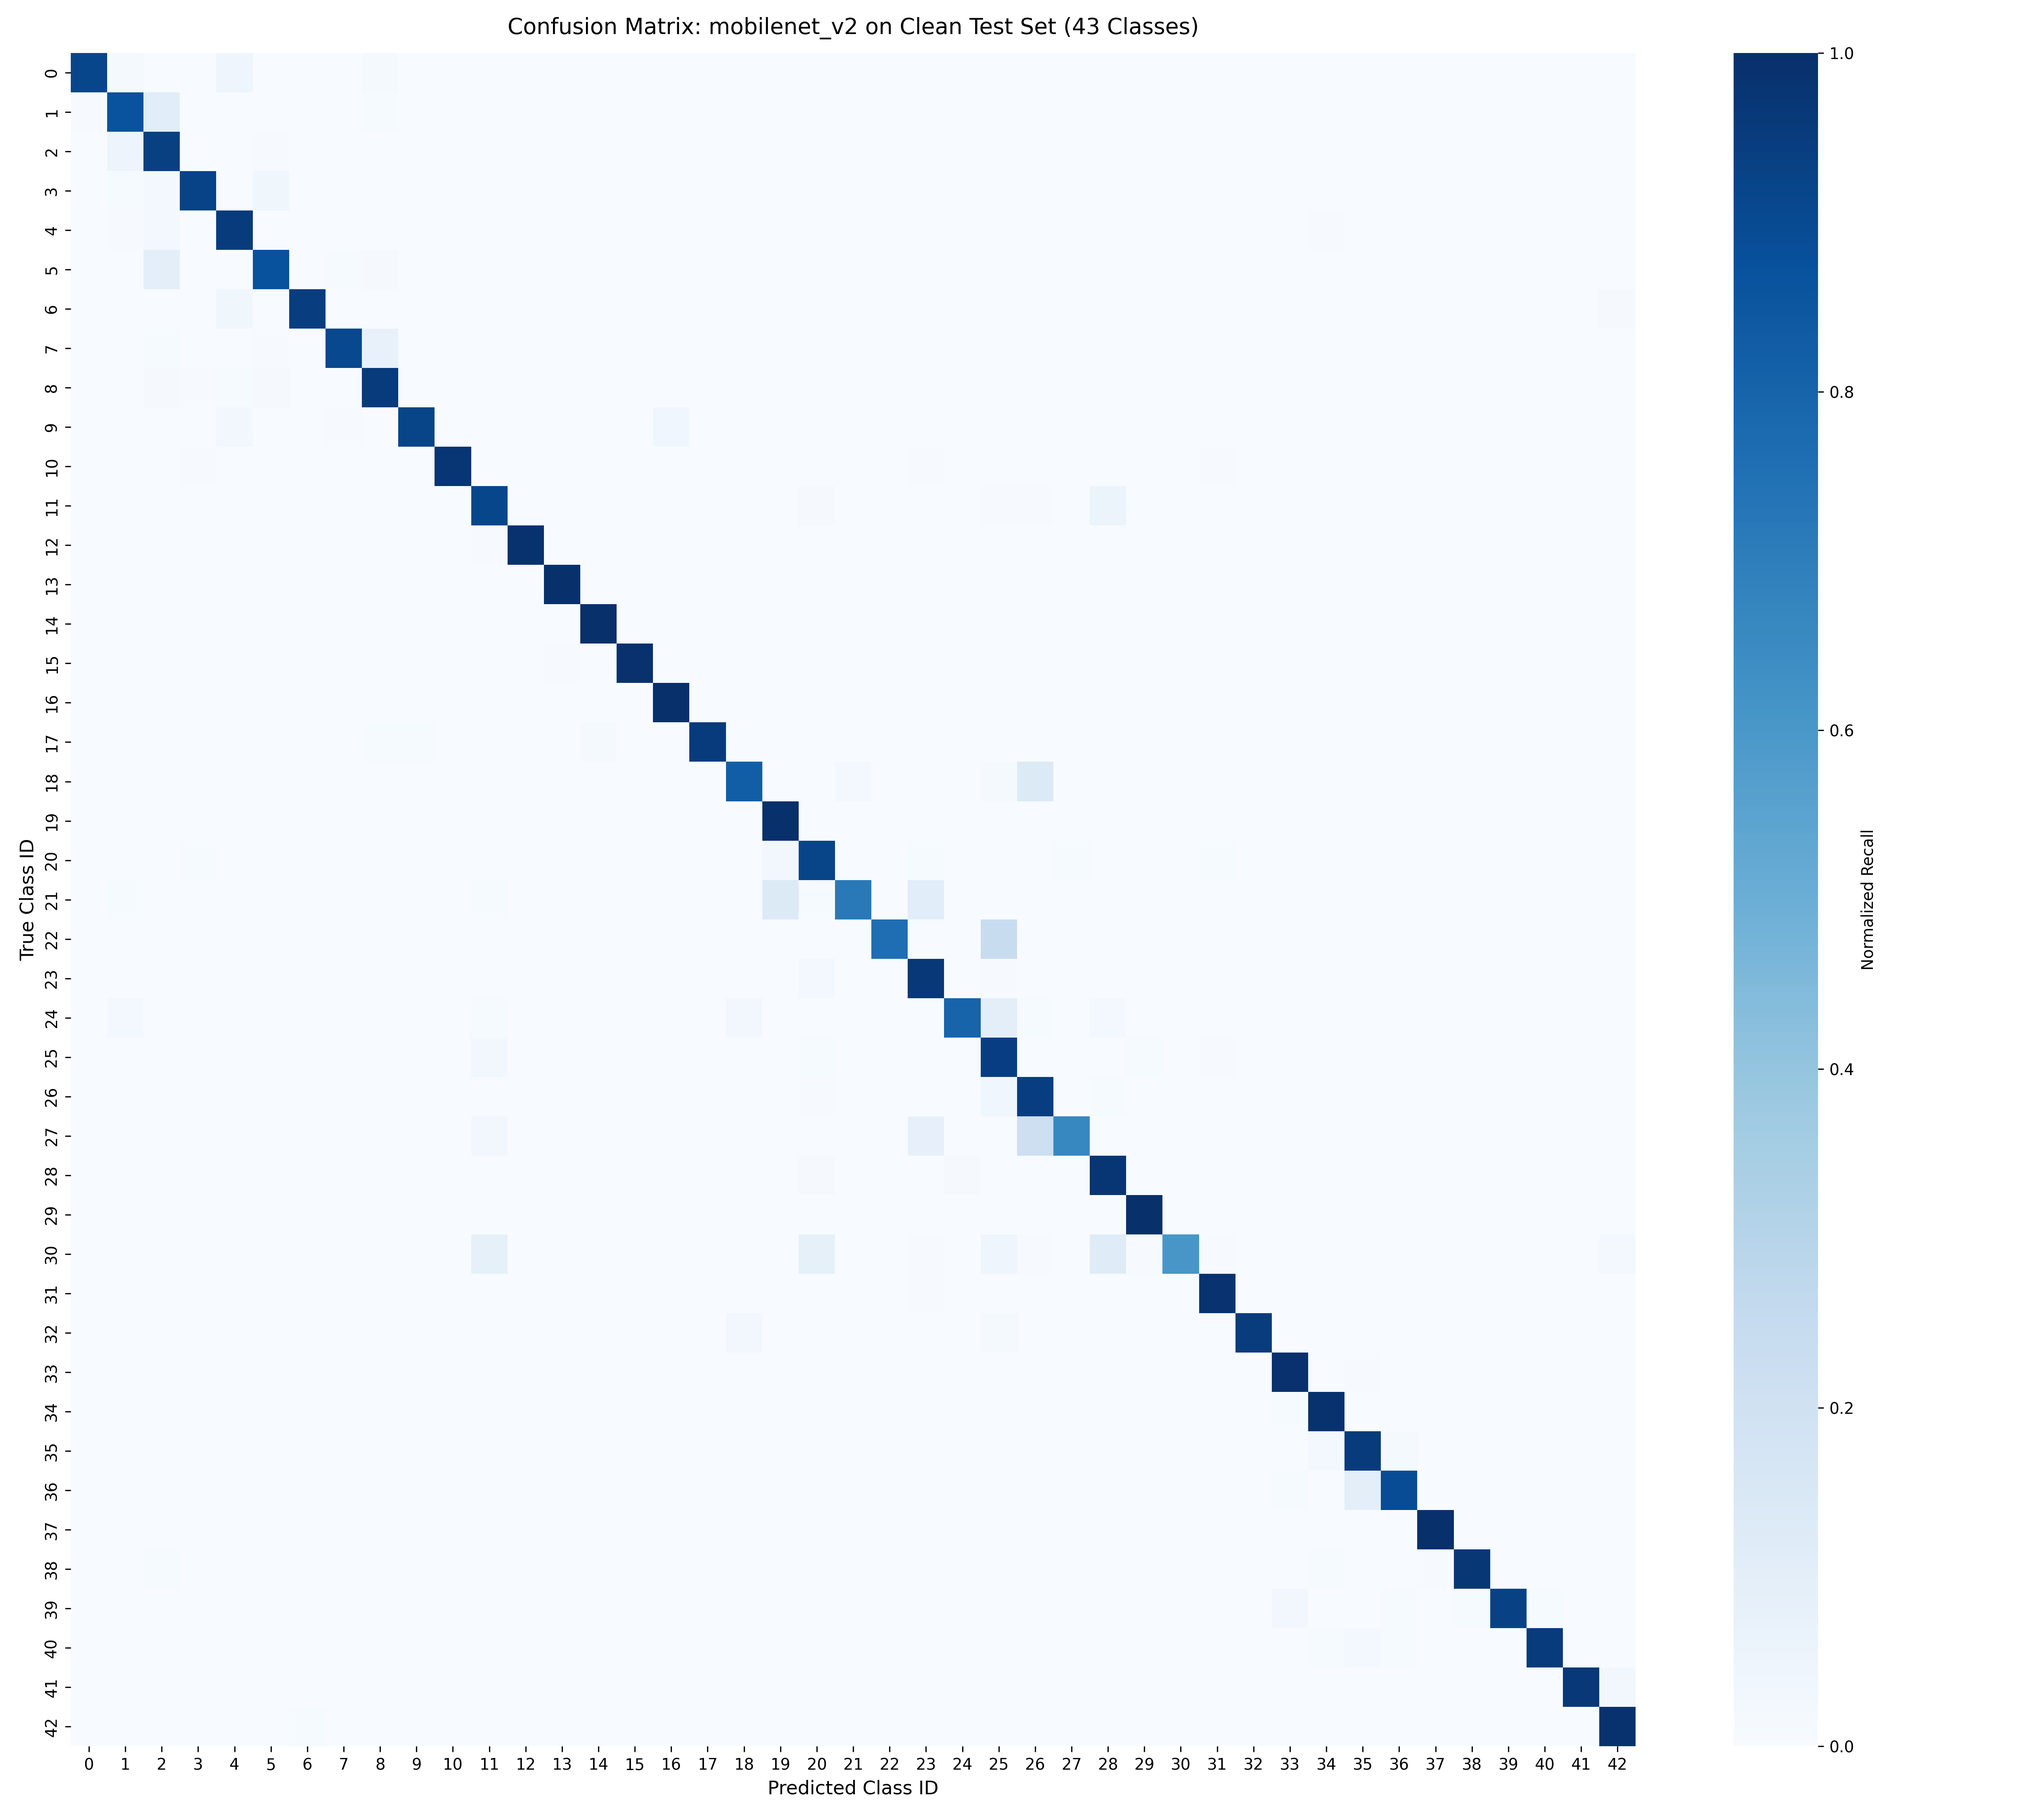
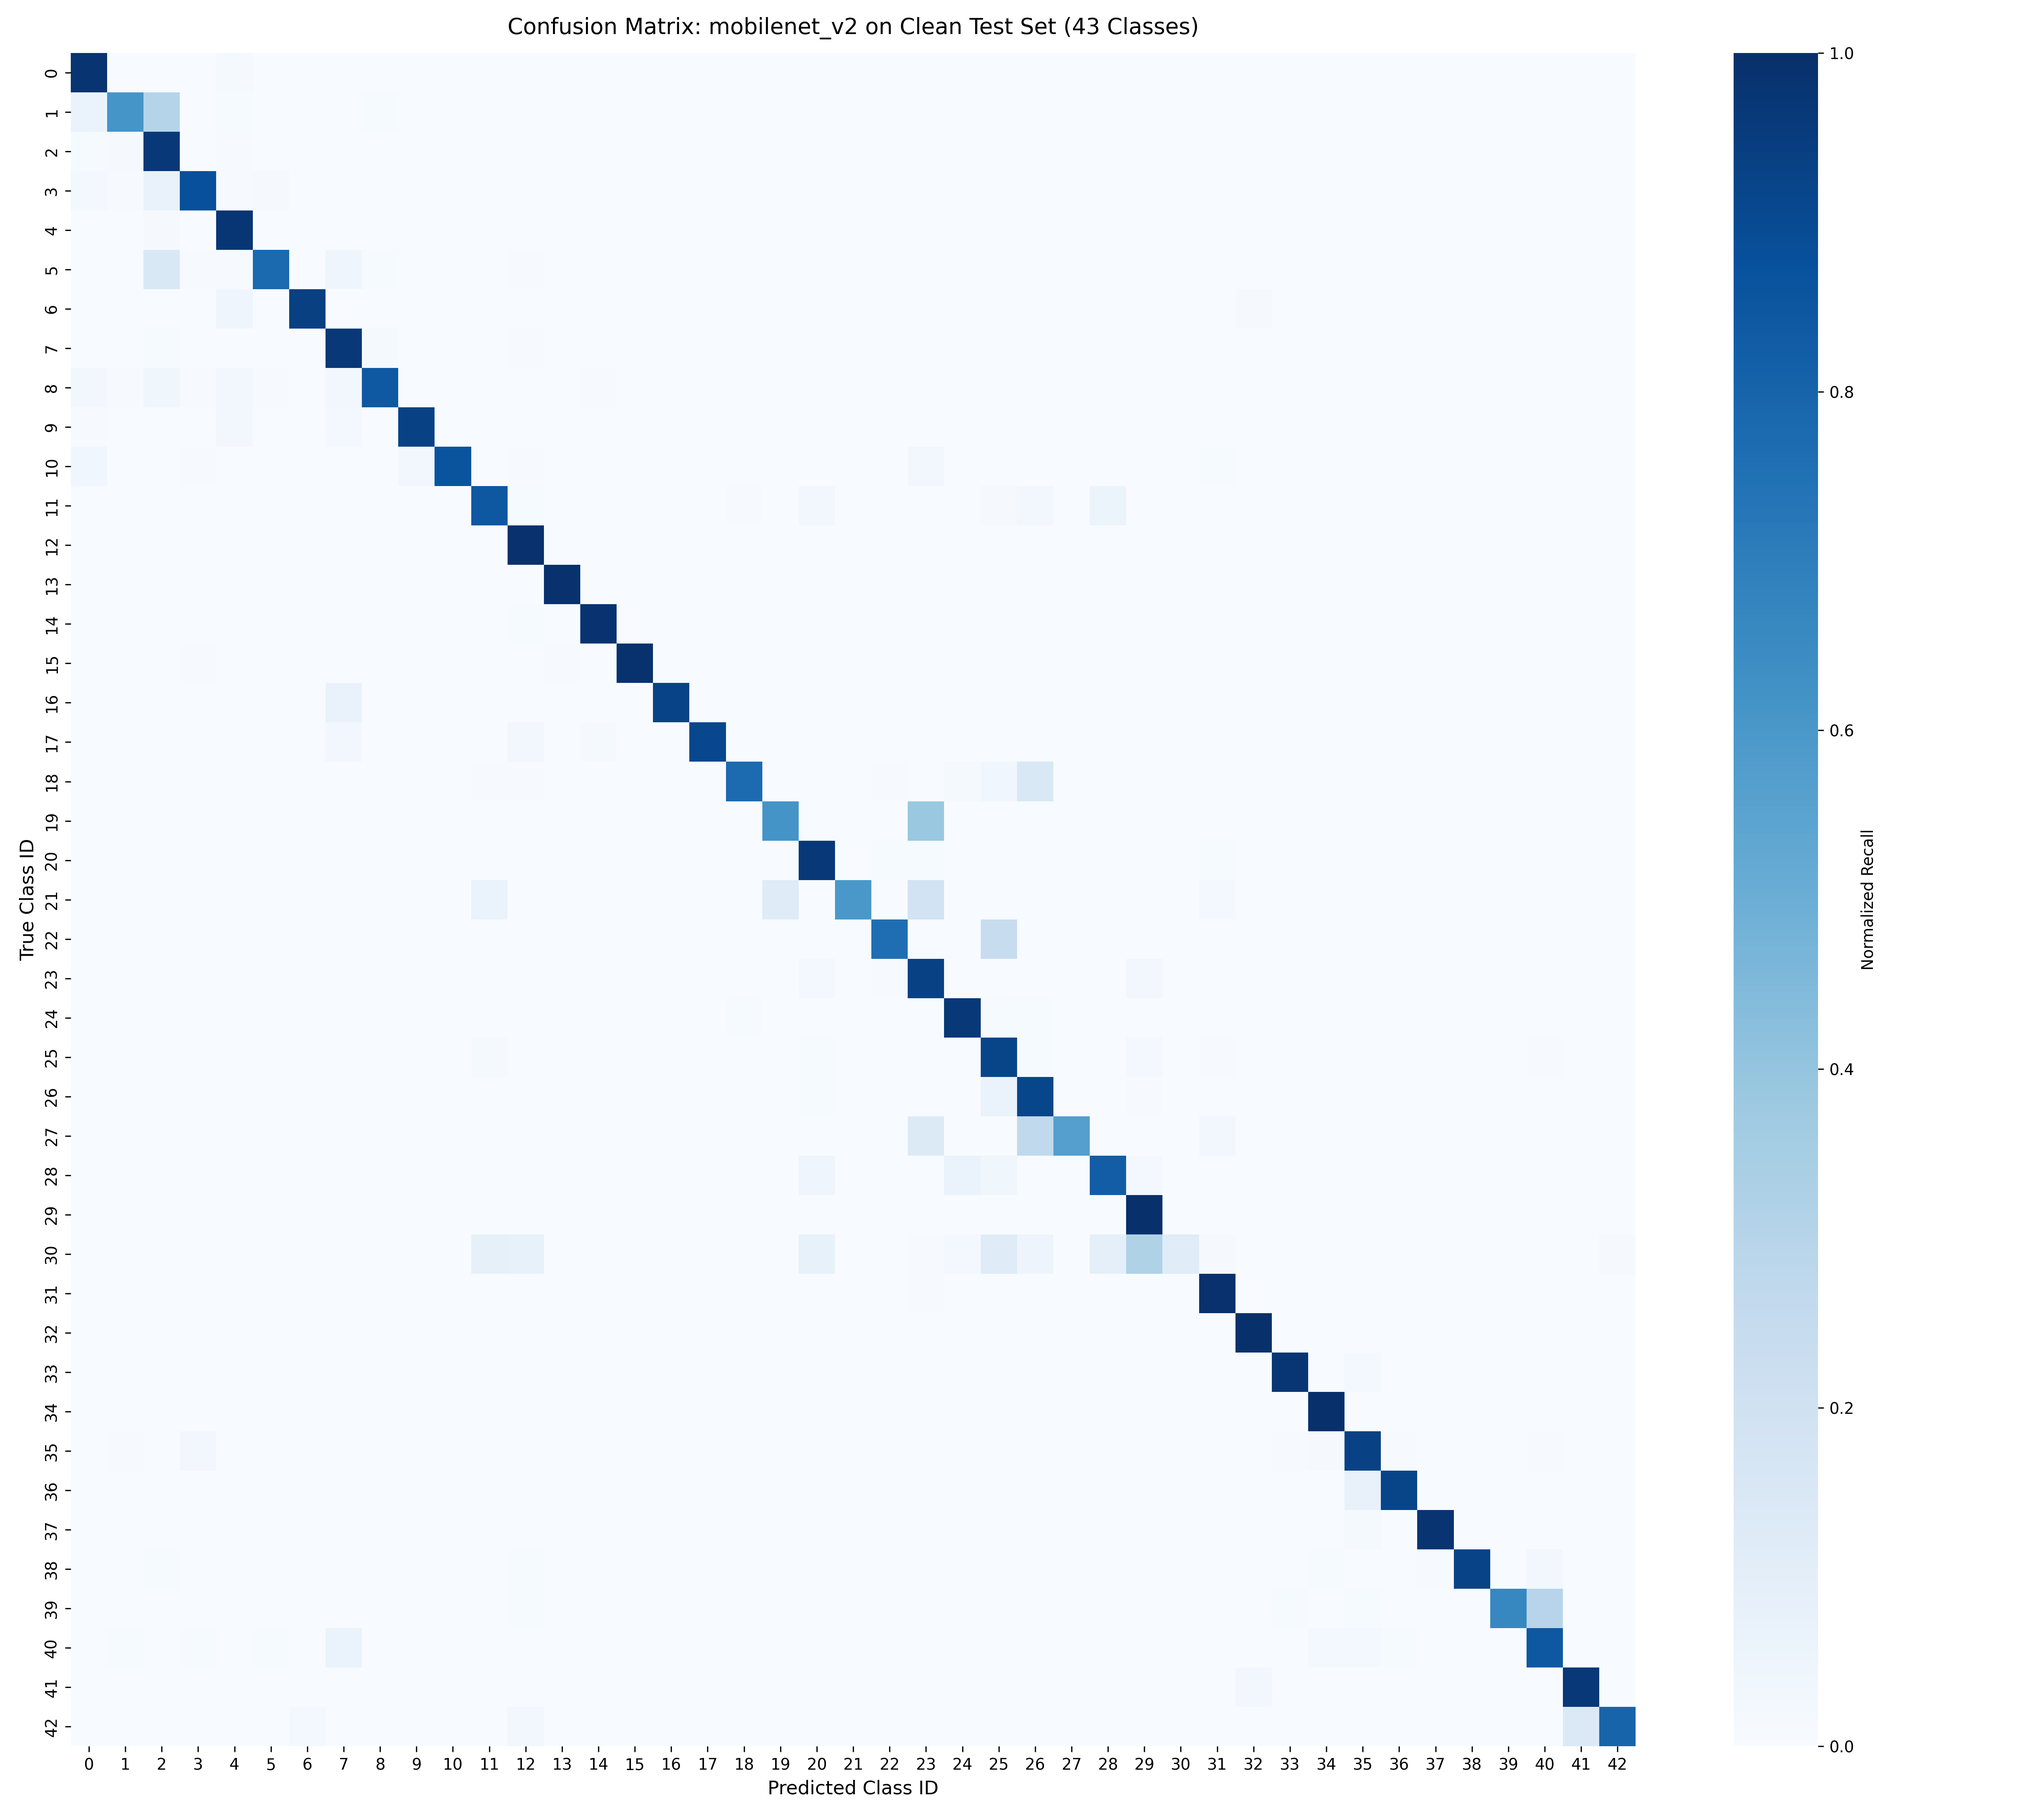
feat: add top-confused sign classes confusion matrices with numbers and full labels

diff --git a/src/evaluate.py b/src/evaluate.py
@@ -80,7 +80,7 @@ def evaluate_model(model, test_loader, device):
 
 
 def plot_and_save_confusion_matrix(y_true, y_pred, model_name: str, out_path: Path):
-    """Generate high-resolution 43x43 confusion matrix heatmap."""
+    """Generate high-resolution 43x43 confusion matrix heatmap and top-confused classes submatrix."""
     cm = confusion_matrix(y_true, y_pred)
     cm_norm = cm.astype("float") / cm.sum(axis=1)[:, np.newaxis]
 
@@ -100,6 +100,38 @@ def plot_and_save_confusion_matrix(y_true, y_pred, model_name: str, out_path: Pa
     plt.savefig(out_path, dpi=300)
     plt.close()
     print(f"Saved confusion matrix to {out_path}")
+
+    # Top 7 Most Confused Classes Sub-Matrix with explicit numbers
+    off_diag = cm.copy()
+    np.fill_diagonal(off_diag, 0)
+    error_sum = off_diag.sum(axis=1) + off_diag.sum(axis=0)
+    top_indices = np.argsort(error_sum)[::-1][:7]
+    sub_cm = cm[np.ix_(top_indices, top_indices)]
+    class_labels = [CLASS_NAMES.get(i, f"Class {i}") for i in top_indices]
+    display_labels = [lbl if len(lbl) <= 24 else lbl[:22] + ".." for lbl in class_labels]
+
+    plt.figure(figsize=(10, 8))
+    sns.heatmap(
+        sub_cm,
+        annot=True,
+        fmt="d",
+        cmap="Blues",
+        xticklabels=display_labels,
+        yticklabels=display_labels,
+        annot_kws={"size": 11, "weight": "bold"},
+        cbar_kws={"label": "Sample Count"},
+    )
+    plt.title(f"Confusion Matrix: Top 7 Confused Sign Classes ({model_name})", fontsize=13, pad=12, fontweight="bold")
+    plt.xlabel("Predicted Label", fontsize=11, fontweight="bold")
+    plt.ylabel("True Label", fontsize=11, fontweight="bold")
+    plt.xticks(rotation=30, ha="right", fontsize=9)
+    plt.yticks(rotation=0, fontsize=9)
+    plt.tight_layout()
+    top_out = out_path.parent / f"{model_name}_cm_top_confused.png"
+    plt.savefig(top_out, dpi=300)
+    plt.close()
+    print(f"Saved top-confused confusion matrix to {top_out}")
+
     return cm
 
 

diff --git a/run_phase4.py b/run_phase4.py
@@ -106,10 +106,10 @@ def generate_comparison_plots():
         "mobilenet_v2":  "MobileNetV2\n(fine-tuned)",
     }
     params_map = {
-        "baseline_cnn": "823K",
-        "improved_cnn": "823K",
-        "resnet18":     "11.7M",
-        "mobilenet_v2": "3.4M",
+        "baseline_cnn": "823,307",
+        "improved_cnn": "823,307",
+        "resnet18":     "11,319,147",
+        "mobilenet_v2": "2,563,115",
     }
 
     rows = []

diff --git a/run_fast.py b/run_fast.py
@@ -557,10 +557,10 @@ def generate_comparison_plots():
         "mobilenet_v2":  "MobileNetV2\n(fine-tuned)",
     }
     params_map = {
-        "baseline_cnn": "823K",
-        "improved_cnn": "823K",
-        "resnet18": "11.7M",
-        "mobilenet_v2": "3.4M",
+        "baseline_cnn": "823,307",
+        "improved_cnn": "823,307",
+        "resnet18": "11,319,147",
+        "mobilenet_v2": "2,563,115",
     }
 
     rows = []
